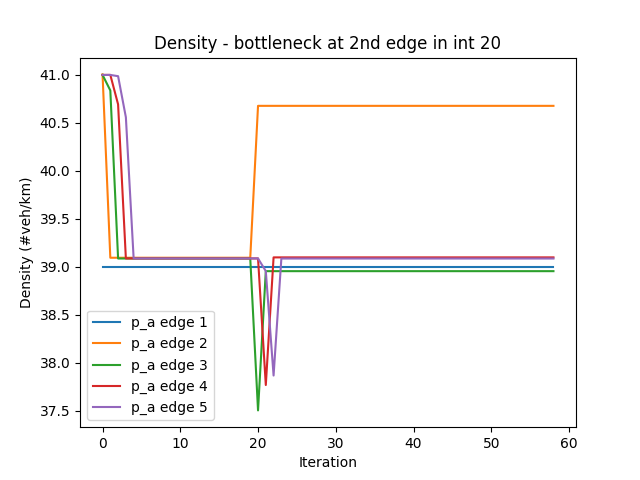
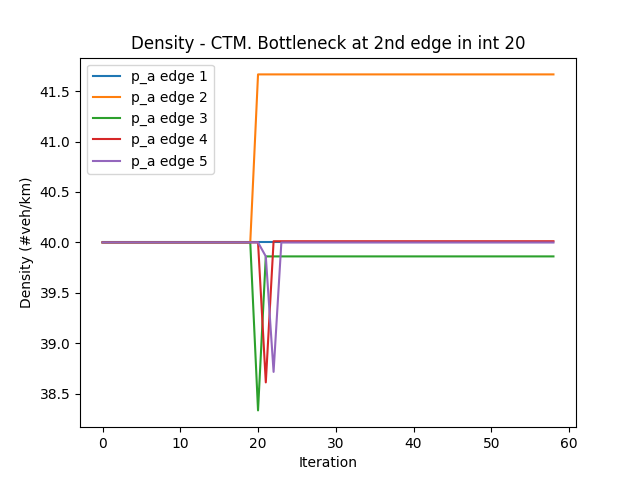
Change values of rnd_main

diff --git a/lab3/ctm/rnd_main.py b/lab3/ctm/rnd_main.py
@@ -5,6 +5,7 @@ import matplotlib.pyplot as plt
 import numpy as np
 import pandas as pd
 import random
+import numpy.random as nprandom
 
 from ctm import Simulation
 
@@ -35,11 +36,11 @@ if __name__ == '__main__':
     # delta_t < delta_x / v0
     # Treiber et al 2013, p. 100
 
-    p_as_edge1 = np.repeat(40 + random.randint(-2,2),60)
-    p_as_iter1 = np.repeat(40 + random.randint(-2,2),6)
+    p_as_edge1 = np.repeat(40, 60)
+    p_as_iter1 = np.repeat(40, 6)
 
-    q_as_edge1 = np.repeat(600 + random.randint(-2,2),60)
-    q_as_iter1 = np.repeat(600 + random.randint(-2,2),6)
+    q_as_edge1 = np.repeat(600, 60)
+    q_as_iter1 = np.repeat(600, 6)
 
     sim = Simulation(edges, m, tau, n_iters, delta_t, delta_x, v0, p_m)
 
@@ -53,13 +54,13 @@ if __name__ == '__main__':
     plot_intervals(output,'p_a')
     plt.ylabel('Density (#veh/km)')
     plt.xlabel('Iteration')
-    plt.title('Density - CTM with rnd values. Bottleneck at 2nd edge in int 20')
+    plt.title('Density - CTM. Bottleneck at 2nd edge in int 20')
     plt.legend()
     plt.show()
 
     plot_intervals(output,'q_a')
     plt.ylabel('Flow (#veh/h)')
-    plt.title('Flow - CTM with rnd values. Bottleneck at 2nd edge in int 20')
+    plt.title('Flow - CTM. Bottleneck at 2nd edge in int 20')
     plt.xlabel('Iteration')
     plt.legend()
     plt.show()
